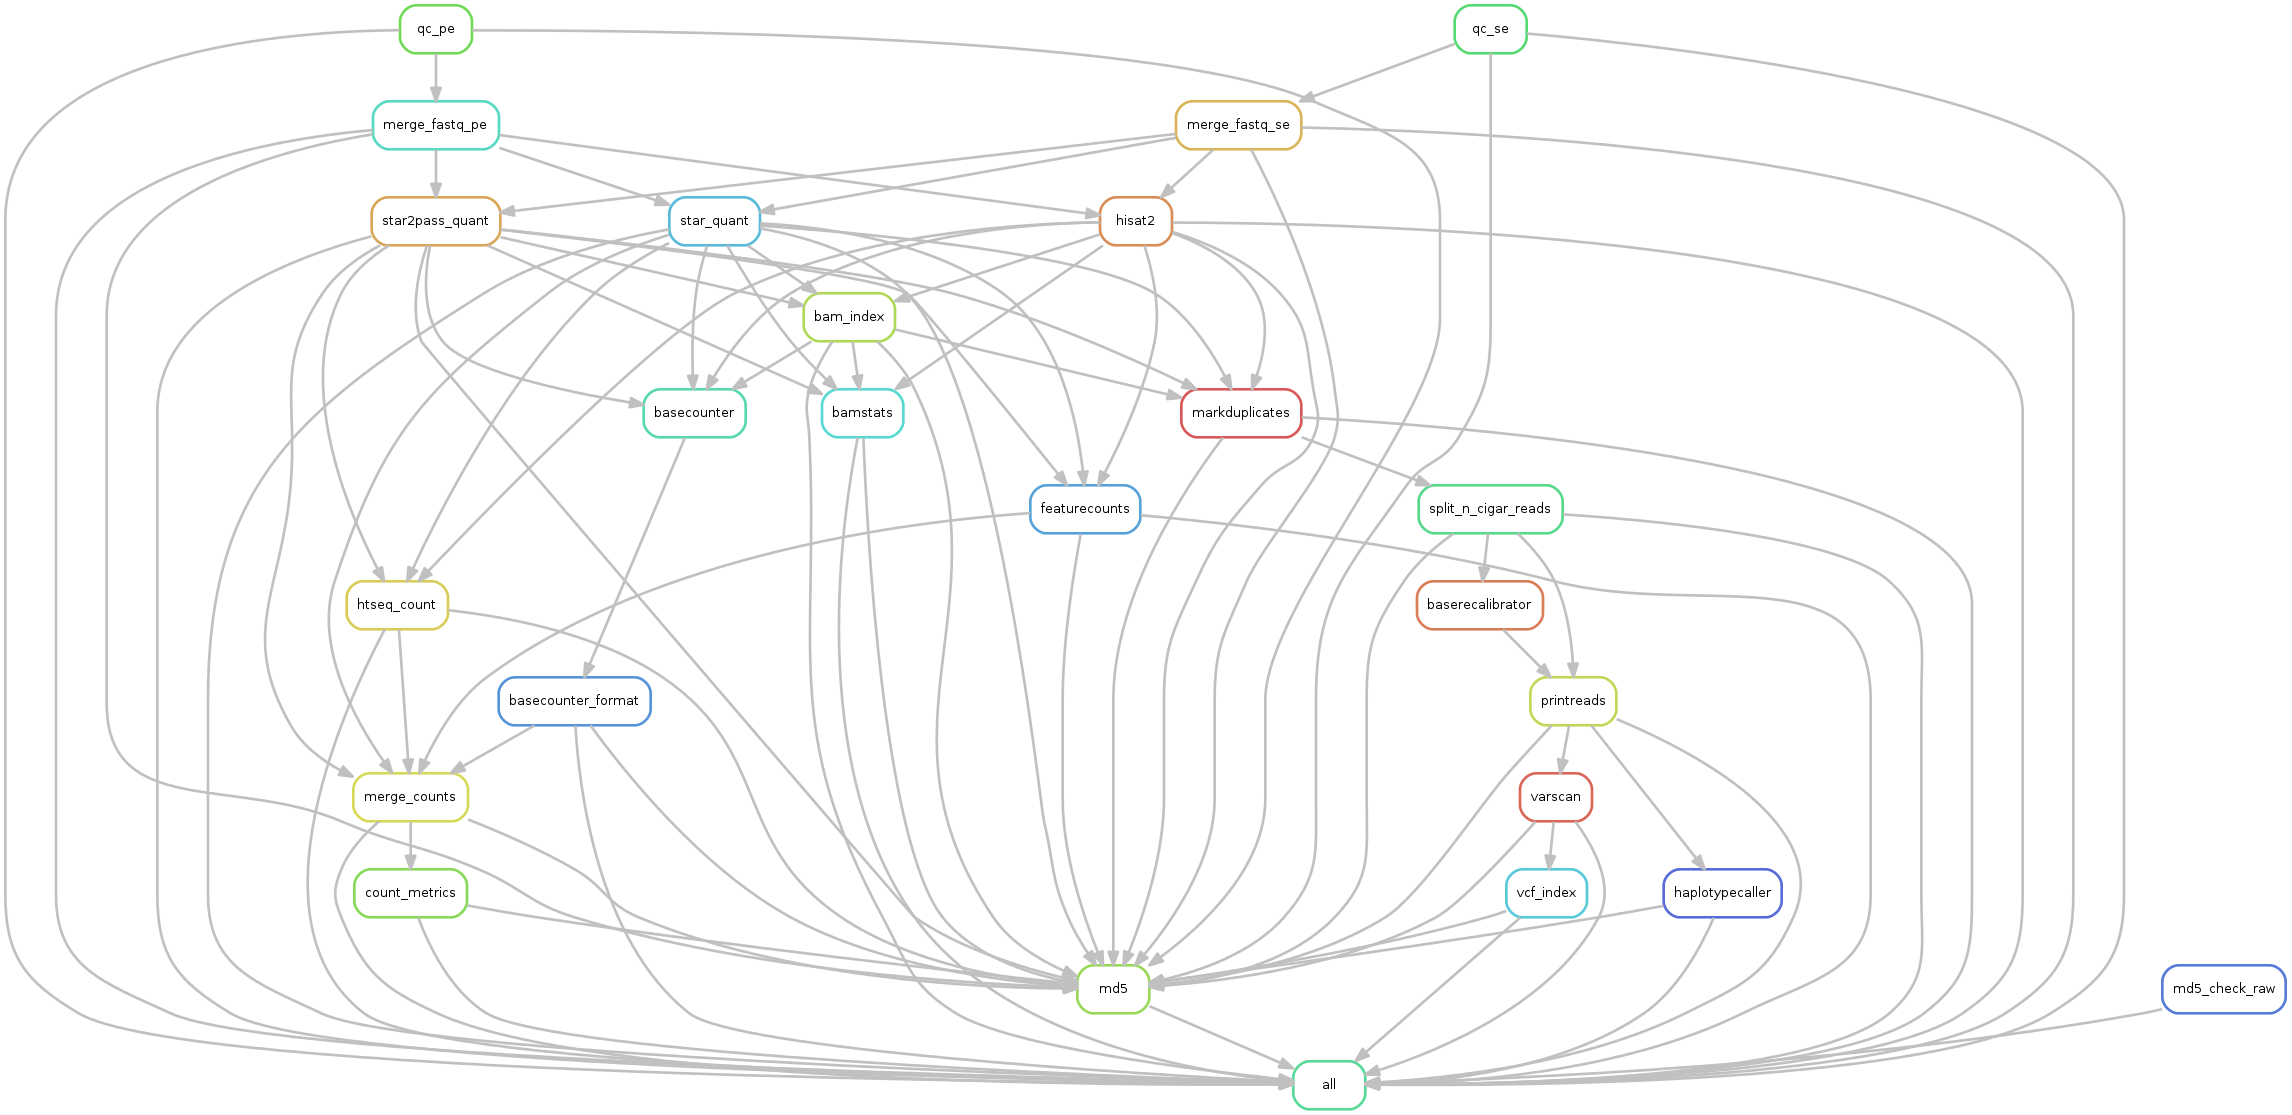
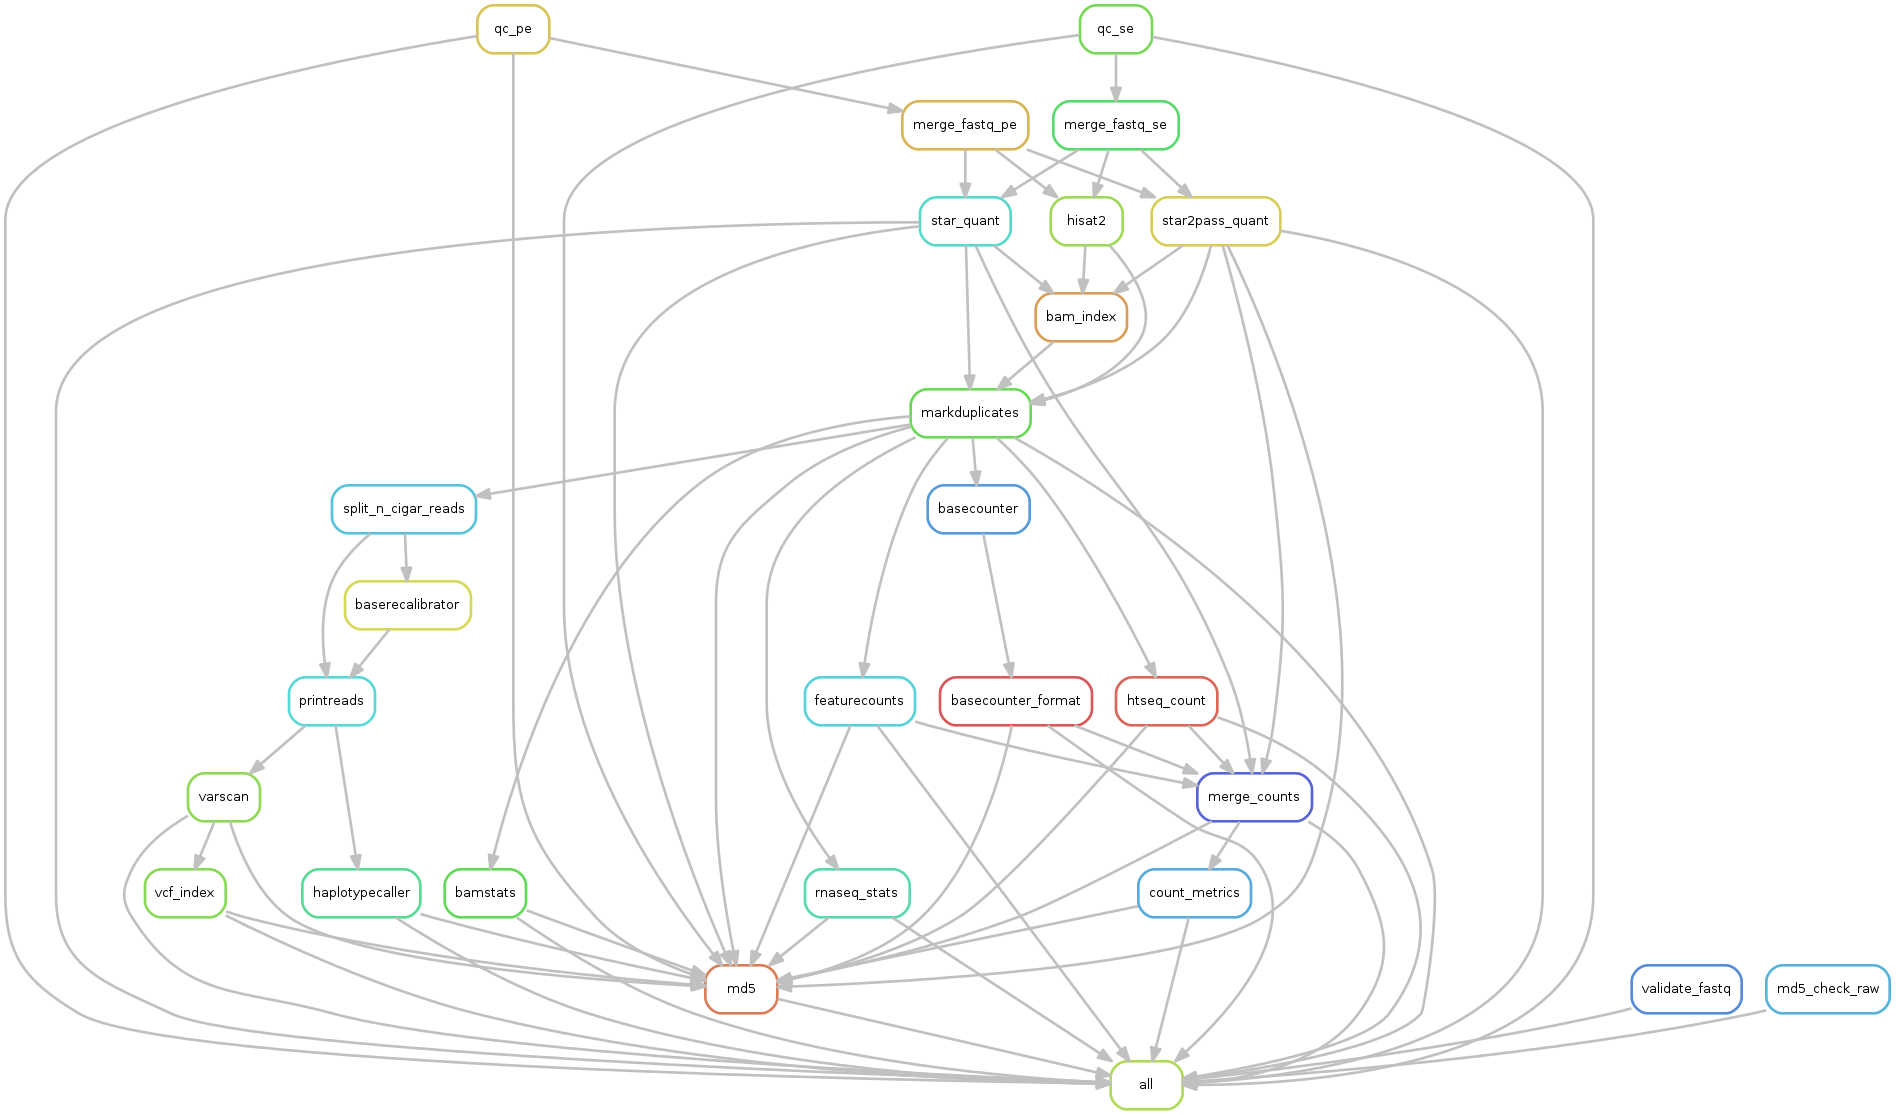
add temp, adjust memory, other adjustments

diff --git a/resources/ownUtils.py b/resources/ownUtils.py
@@ -243,15 +243,10 @@ def determineOutput(config, sampleSheet):
             QC=QC, lane=getLanesForSample(sample, sampleSheet),
             ex=["html", "zip"])
 
-    # merged fastq files
-    out += getFilePerSample(samples, sampleSheet,
-        "merged/{sample}_merged.fastq.gz",
-        "merged/{sample}_merged_{group}.fastq.gz")
-
     # bam and bai files
     for mapper in mappers:
-        out += expand("{mapper}/{sample}/{sample}_{mapper}.{ex}",
-            mapper=mapper, sample=samples, ex=["bam", "bam.bai"])
+        out += expand("{mapper}/{sample}/{sample}_{mapper}.mdup.{ex}",
+            mapper=mapper, sample=samples, ex=["bam", "bai"])
 
         #bamstats
         out += expand("{mapper}/metrics/{sample}/{file}",
@@ -290,29 +285,19 @@ def determineOutput(config, sampleSheet):
                     "metrics/alignmentSummaryPercentages.tsv".format(
                     mapper=mapper, countType=countType))
 
-        #variant calling preprocessing
-        if len(variantcallers) > 0:
-            #mark duplicates
-            out += expand("{mapper}/{sample}/{sample}_{mapper}.mdup.{ex}",
-                mapper=mapper, sample=samples, ex=["bam", "bai", "metrics"])
-            #SplitNCigarReads
-            out += expand("{mapper}/{sample}/{sample}_{mapper}.split.{ex}",
-                mapper=mapper, sample=samples, ex=["bam", "bai"])
-            #BaseRecalibrator/ApplyBQSR
-            out += expand("{mapper}/{sample}/{sample}_{mapper}.recal.{ex}",
-                mapper=mapper, sample=samples, ex=["bam", "bai"])
-
         # vcf and tbi files
         for variantcaller in variantcallers:
+            if variantcaller == "haplotypecaller":
+                out += expand("variantcalling_{mapper}/{variantcaller}/"
+                "{sample}/{sample}.filtered.vcf.gz{ex}",
+                mapper=mapper, variantcaller=variantcaller, sample=samples,
+                ex=["", ".tbi"])
+            else:
                 out += expand("variantcalling_{mapper}/{variantcaller}/"
                 "{sample}/{sample}.{ex}",
                 variantcaller=variantcaller, mapper=mapper, sample=samples,
                 ex=["vcf.gz", "vcf.gz.tbi"])
-                if variantcaller == "haplotypecaller":
-                    out += expand("variantcalling_{mapper}/{variantcaller}/"
-                    "{sample}/{sample}.filtered.vcf.gz{ex}",
-                    mapper=mapper, variantcaller=variantcaller, sample=sample,
-                    ex=["", ".tbi"])
+
 
         # centrifuge
         if config["centrifuge"]["include"]:
@@ -324,13 +309,15 @@ def determineOutput(config, sampleSheet):
     if "salmon" in countTypes:
         out += expand("expression_measures_without_alignment/salmon/"
             "{sample}/{sample}.tsv", sample=samples)
-        out.append("expression_measures_without_alignment/salmon/"
-            "all_samples.tsv")
+        if config["merge_counts"]:
+            out.append("expression_measures_without_alignment/salmon/"
+                "all_samples.tsv")
 
 
 
     # get md5 files and add them
-    out += expand("{file}.md5", file=out)
+    if config["generate_md5"]:
+        out += expand("{file}.md5", file=out)
 
     # raw md5 check
     out += expand(".md5_check/{file}.OK", file=getBasenames(inputs))

diff --git a/scripts/pipeline_summary.py b/scripts/pipeline_summary.py
@@ -1,0 +1,37 @@
+import json
+
+out = {}
+
+def addToDic(sample, lane, filename, path, md5):
+    if lane == None:
+        lane = "*"
+    if not sample in out.keys():
+        out[sample] = {}
+    if lane != None:
+        if not lane in out[sample].keys():
+            out[sample][lane] = {}
+    out[sample][lane][path] = {"filename": filename[:-4], "md5": md5}
+
+
+for path in snakemake.input:
+    if path[-4:] == ".md5":
+        names = path.split("/")
+        fileName = names[-1]
+        if path[:3] == "QC_":
+            if names[-2] == "metrics":
+                lane = names[-3]
+                sample = names[-4]
+            else:
+                lane = names[-2]
+                sample = names[-3]
+        else:
+            lane = None
+            sample =  names[-2]
+        f = open(path, "r")
+        md5 = f.read().split()[0]
+        f.close()
+        addToDic(sample, lane, fileName, path, md5)
+
+outFile = open(snakemake.output[0], "w")
+json.dump(out, outFile)
+outFile.close()
